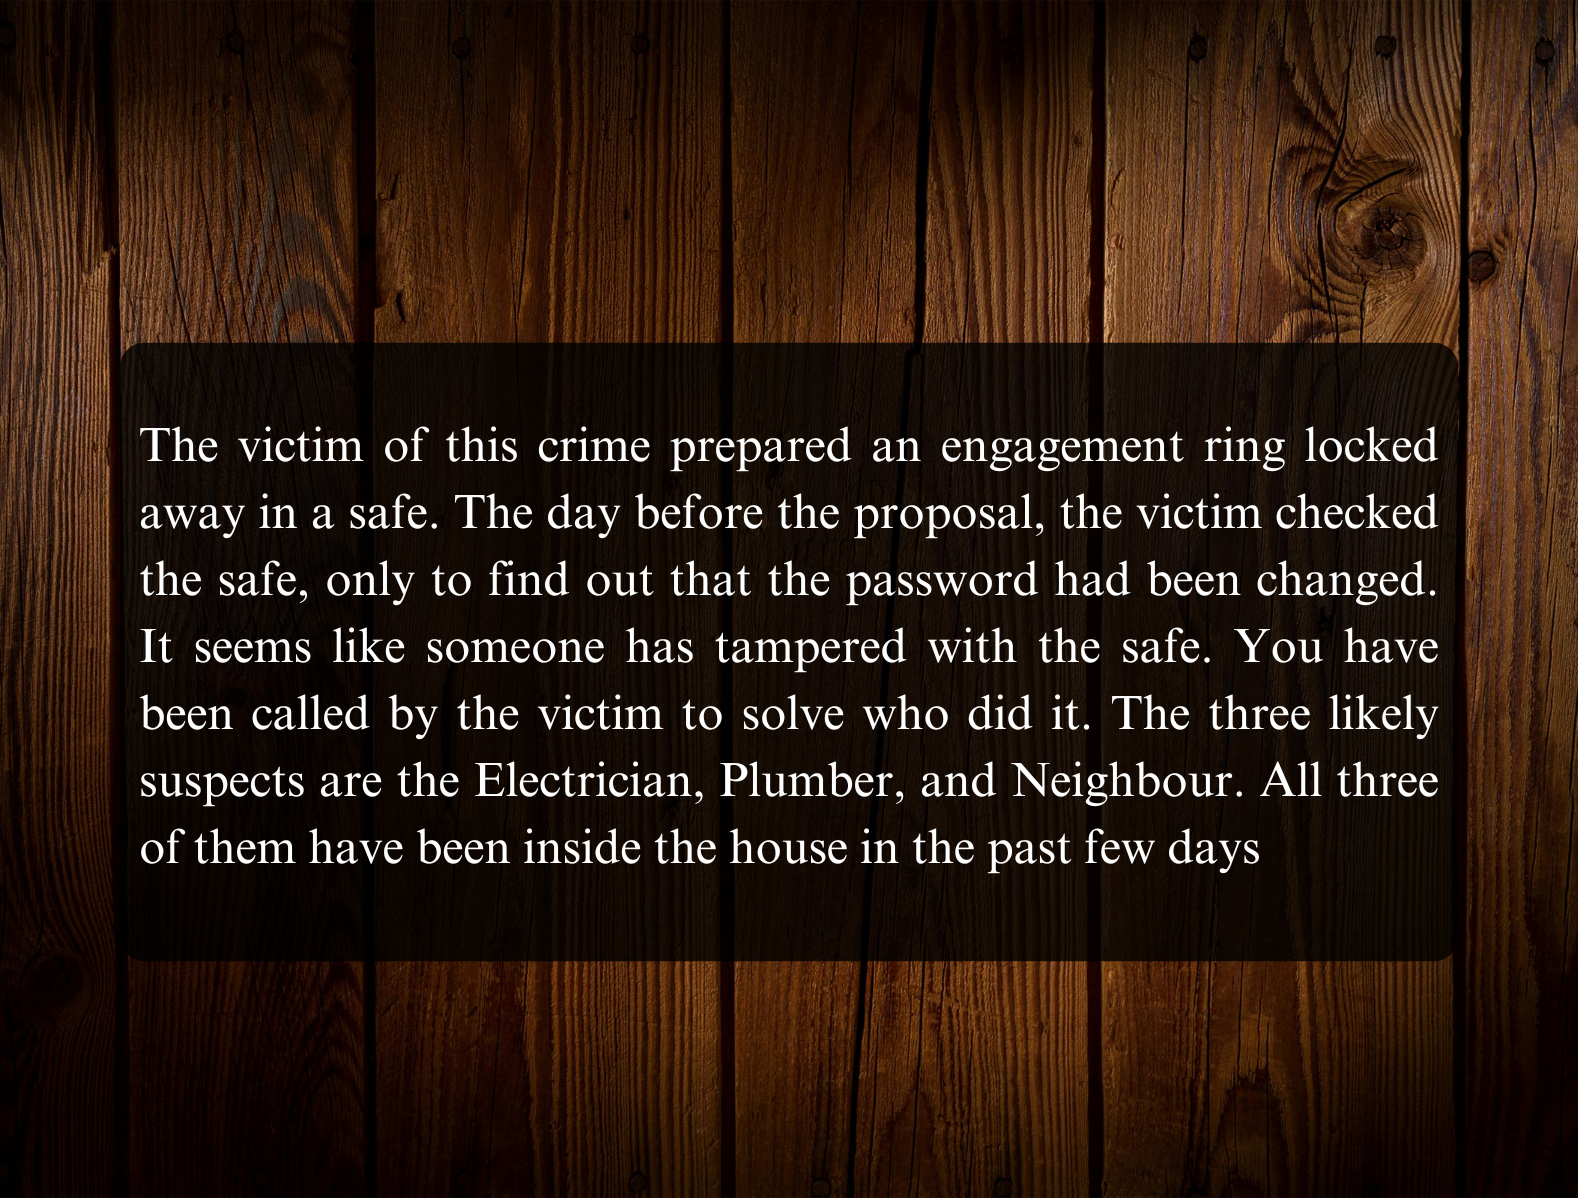
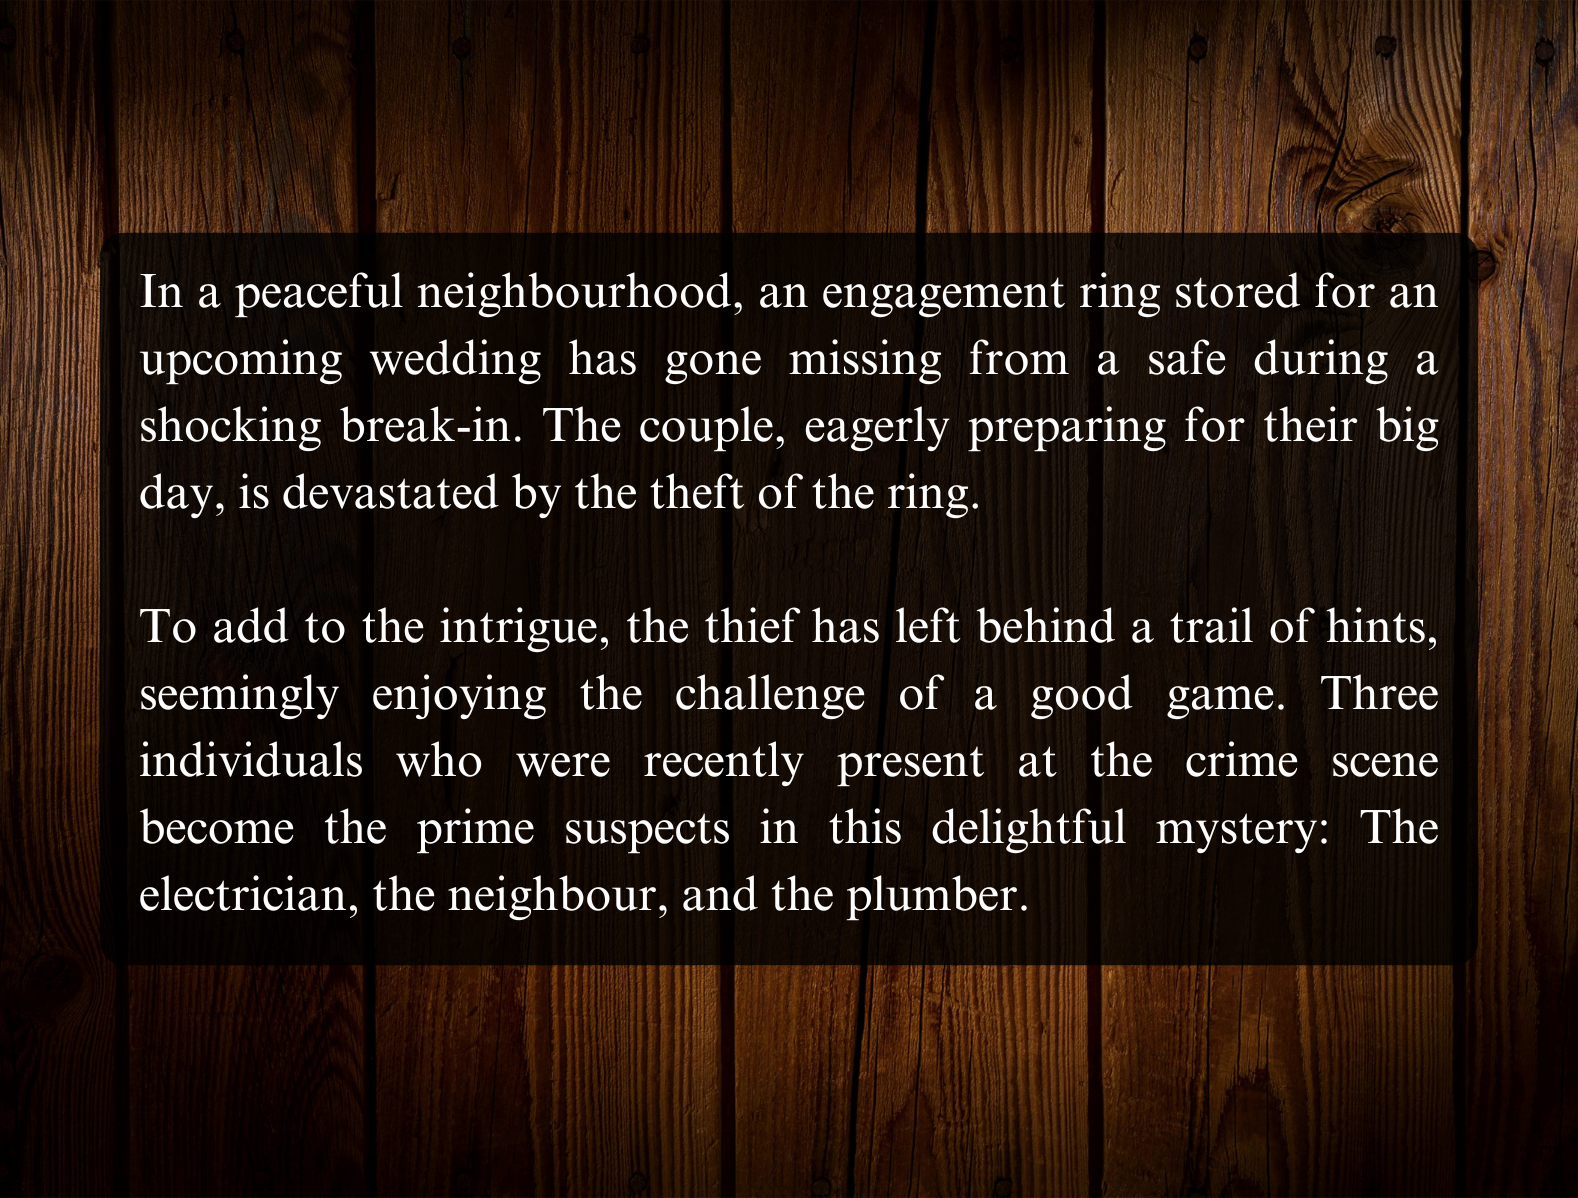
made changes to several controllers for naming convention update and edited backstory

Changed region(s): [[0.0621, 0.1853, 0.9626, 0.7721], [0.9005, 0.7721, 0.9316, 0.803]]

diff --git a/src/main/java/nz/ac/auckland/se206/TimerManager.java b/src/main/java/nz/ac/auckland/se206/TimerManager.java
@@ -10,10 +10,10 @@ public class TimerManager {
   private static TimerManager instance; // Singleton instance
 
   // Instance Fields
+  private GameStateContext context; // Shared game context
+  private Timeline timeline; // Timeline for managing timer events
   private int secondsRemaining = 300; // Track the number of seconds remaining
   private boolean isTimeUp = false; // Flag to indicate if time has run out
-  private Timeline timeline;
-  private GameStateContext context;
 
   /** Private constructor to prevent instantiation. */
   private TimerManager(GameStateContext context) {

diff --git a/src/main/java/nz/ac/auckland/se206/controllers/HomeController.java b/src/main/java/nz/ac/auckland/se206/controllers/HomeController.java
@@ -35,7 +35,7 @@ public class HomeController {
   }
 
   @FXML
-  private void handleStartGame(ActionEvent event) throws IOException {
+  private void handleStartGameButtonClick(ActionEvent event) throws IOException {
     // Get the button that triggered the event
     Button button = (Button) event.getSource();
 
@@ -60,7 +60,7 @@ public class HomeController {
   }
 
   @FXML
-  private void handleExit(ActionEvent event) {
+  private void handleExitButtonClick(ActionEvent event) {
     Stage stage = (Stage) exitButton.getScene().getWindow();
     stage.close();
     System.exit(0);

diff --git a/src/main/java/nz/ac/auckland/se206/controllers/ComputerPasswordController.java b/src/main/java/nz/ac/auckland/se206/controllers/ComputerPasswordController.java
@@ -96,7 +96,7 @@ public class ComputerPasswordController {
   }
 
   @FXML
-  private void handleSendButtonPress() throws IOException {
+  private void handleSendButtonClick() throws IOException {
     handlePasswordSubmit(); // Call the same method that handles password submission
   }
 
@@ -189,7 +189,7 @@ public class ComputerPasswordController {
   }
 
   @FXML
-  private void handleShowPassword() {
+  private void handleShowPasswordClick() {
     if (isPasswordVisible) {
       // make image visible
       showPasswordDisable.setVisible(false);

diff --git a/src/main/java/nz/ac/auckland/se206/controllers/GameOverController.java b/src/main/java/nz/ac/auckland/se206/controllers/GameOverController.java
@@ -203,13 +203,13 @@ public class GameOverController {
   }
 
   @FXML
-  private void handleReplay(ActionEvent event) throws IOException {
+  private void handleReplayButtonClick(ActionEvent event) throws IOException {
     SoundManager.stopSound();
     App.resetGame();
   }
 
   @FXML
-  private void handleExit(ActionEvent event) {
+  private void handleExitButtonClick(ActionEvent event) {
     SoundManager.stopSound();
     System.exit(0);
   }

diff --git a/src/main/java/nz/ac/auckland/se206/controllers/SafeController.java b/src/main/java/nz/ac/auckland/se206/controllers/SafeController.java
@@ -95,7 +95,7 @@ public class SafeController {
   }
 
   @FXML // Handle the exit button hover effect based on exiting the rectangle above it
-  private void handleExitHoverExit(MouseEvent event) {
+  private void handleExitButtonHoverExit(MouseEvent event) {
     exitButtonUnhovered.setVisible(true);
     exitButtonHover.setVisible(false);
   }

diff --git a/src/main/java/nz/ac/auckland/se206/controllers/ComputerOpenController.java b/src/main/java/nz/ac/auckland/se206/controllers/ComputerOpenController.java
@@ -74,7 +74,7 @@ public class ComputerOpenController {
 
   /** Plays the wrench sound and manages its playback state. */
   @FXML
-  private void playWrenchSound() {
+  private void handlePlayWrenchSound() {
     computerPauseButton.setVisible(true);
     playButtonHovered.setVisible(false);
     pauseButtonHovered.setVisible(false);

diff --git a/src/main/java/nz/ac/auckland/se206/controllers/BackstoryController.java b/src/main/java/nz/ac/auckland/se206/controllers/BackstoryController.java
@@ -53,7 +53,7 @@ public class BackstoryController {
   }
 
   @FXML
-  private void handleContinue(ActionEvent event) throws IOException {
+  private void handleContinueButtonClick(ActionEvent event) throws IOException {
     App.changeRoom(null, "room");
     SoundManager.playSound(DOOR, false);
   }
